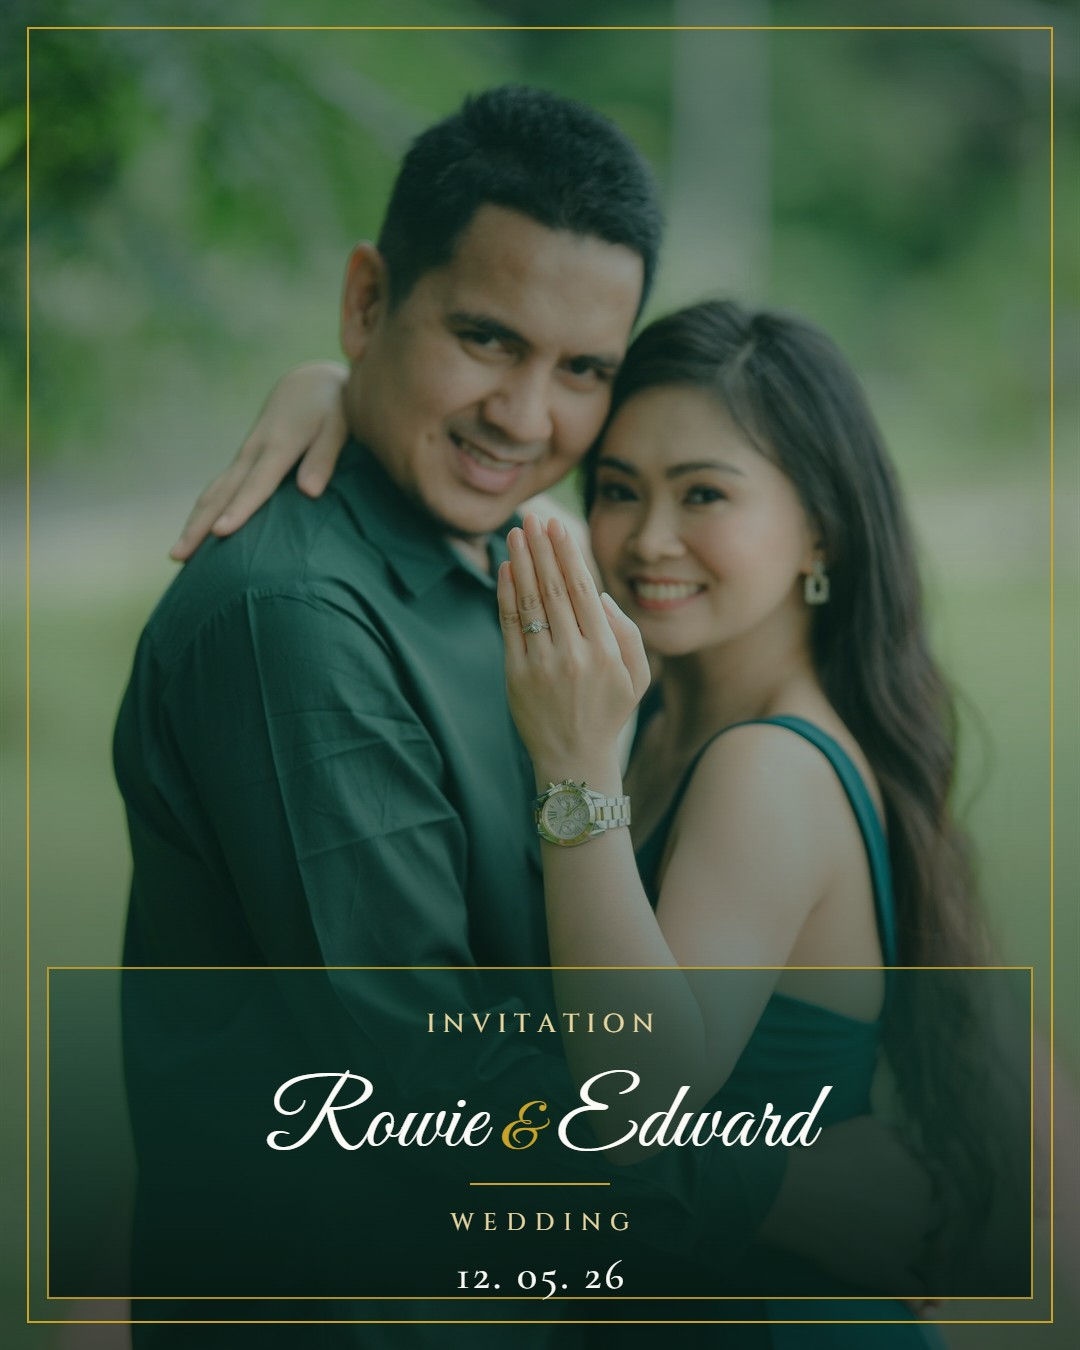
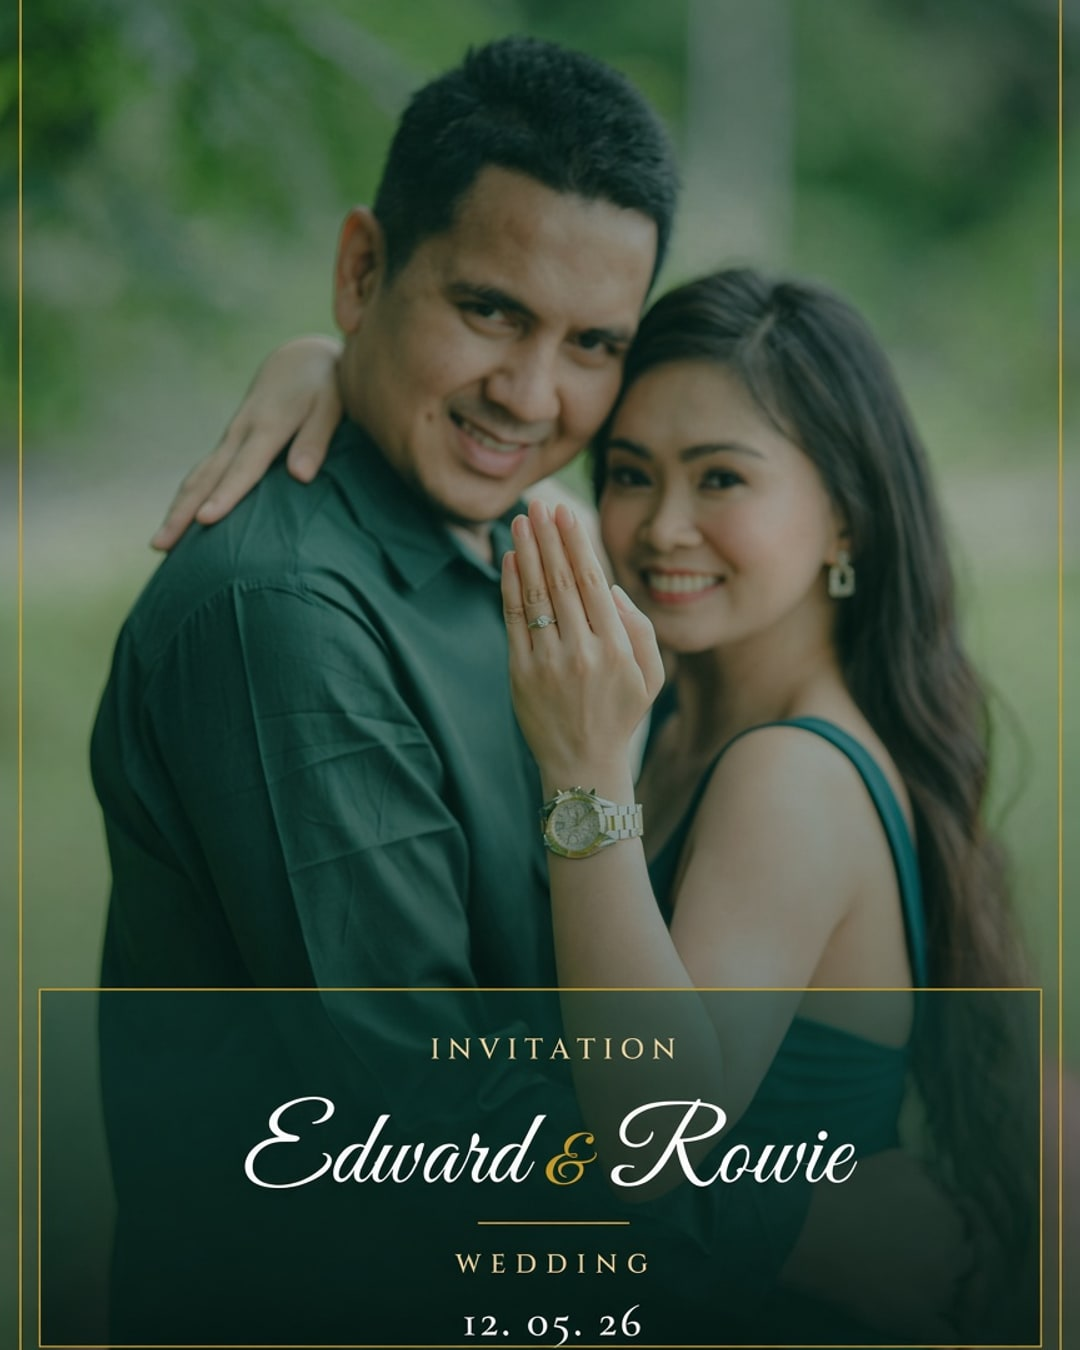
update thumb

diff --git a/src/index.html b/src/index.html
@@ -17,8 +17,8 @@
   <meta property="og:title" content="Edward &amp; Rowie">
   <meta property="og:description" content="You're invited to our wedding on December 5, 2026 at 10:00 AM — Nuestra Señora delos Remedios Parish, San Pablo City.">
   <meta property="og:url" content="https://randewedding.randewedding.workers.dev/">
-  <meta property="og:image" content="https://randewedding.randewedding.workers.dev/images/og-invite.jpg?v=20261108c">
-  <meta property="og:image:secure_url" content="https://randewedding.randewedding.workers.dev/images/og-invite.jpg?v=20261108c">
+  <meta property="og:image" content="https://randewedding.randewedding.workers.dev/images/og-invite.jpg?v=20261109">
+  <meta property="og:image:secure_url" content="https://randewedding.randewedding.workers.dev/images/og-invite.jpg?v=20261109">
   <meta property="og:image:type" content="image/jpeg">
   <meta property="og:image:width" content="1080">
   <meta property="og:image:height" content="1350">
@@ -26,7 +26,7 @@
   <meta name="twitter:card" content="summary_large_image">
   <meta name="twitter:title" content="Edward &amp; Rowie">
   <meta name="twitter:description" content="You're invited to our wedding on December 5, 2026 at 10:00 AM — Nuestra Señora delos Remedios Parish, San Pablo City.">
-  <meta name="twitter:image" content="https://randewedding.randewedding.workers.dev/images/og-invite.jpg?v=20261108c">
+  <meta name="twitter:image" content="https://randewedding.randewedding.workers.dev/images/og-invite.jpg?v=20261109">
   <meta name="twitter:image:alt" content="Edward &amp; Rowie wedding invitation">
 
   <!-- Fonts: Cormorant Garamond (elegant serif body/headings),
